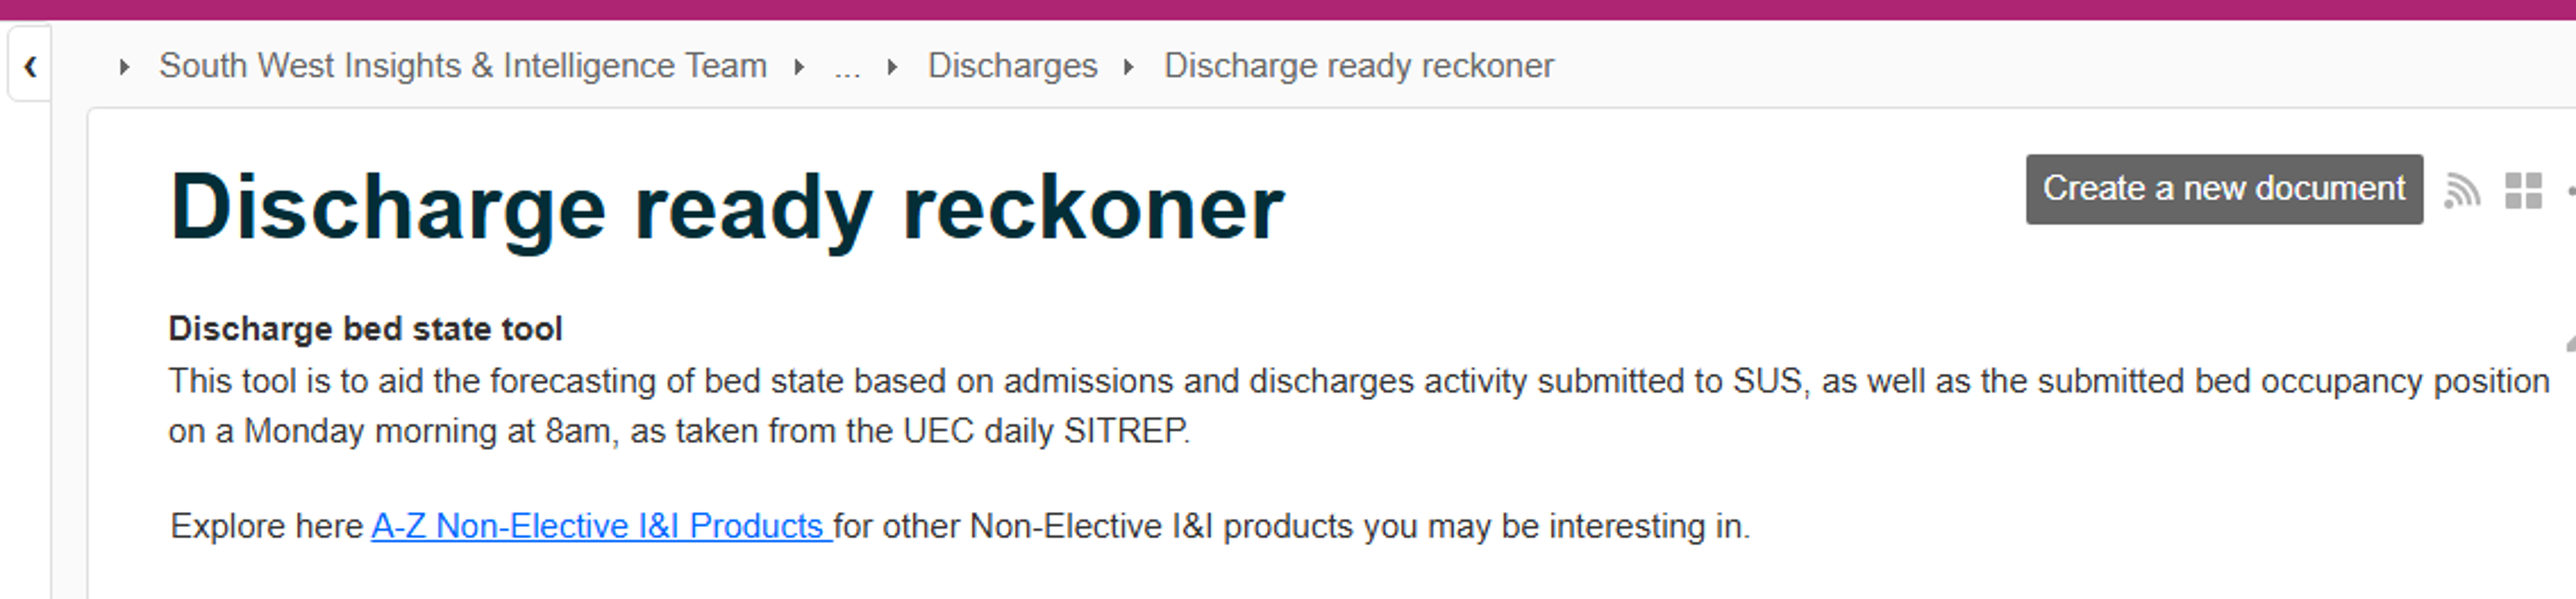
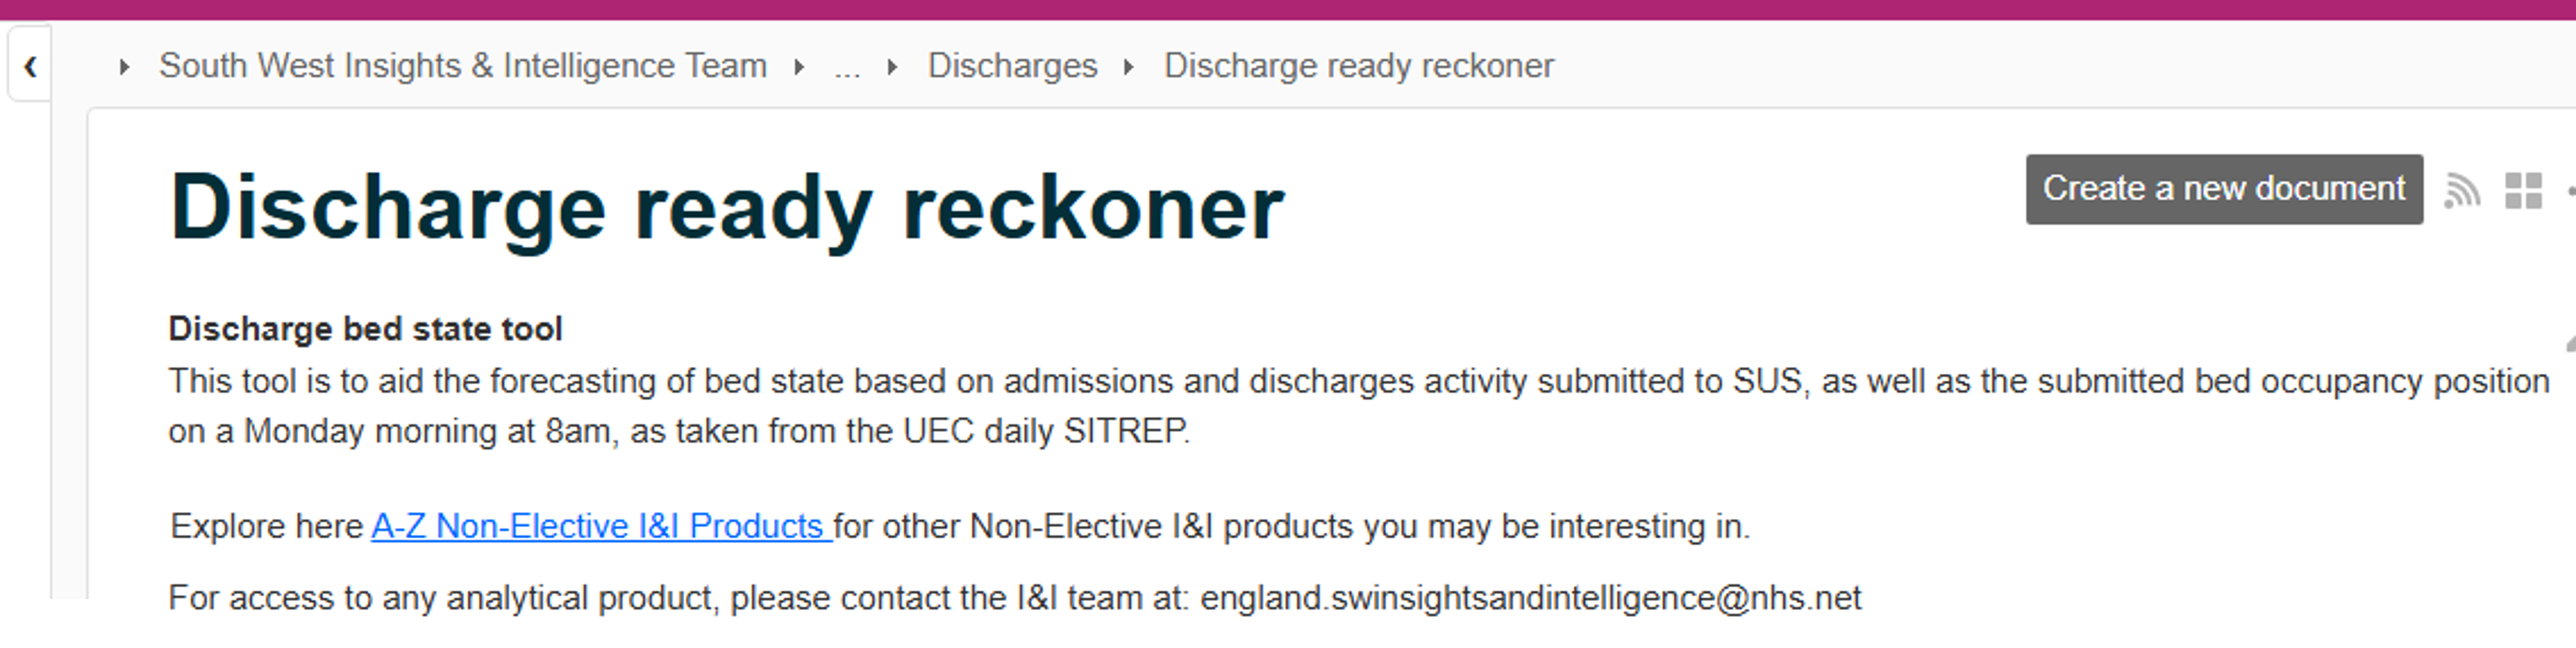
small changes

diff --git a/docs/reporting_corecomponents/index.md b/docs/reporting_corecomponents/index.md
@@ -71,6 +71,7 @@ All routine analytical products should be made available on the [NHS Futures pag
 
 **Product Description:** Every product should include a clear description outlining its purpose and the frequency of updates on the NHS Futures product page
 
+**How to get access:** Directions on how to gain access should be clearly shown (e.g. "For access to any analytical product, please contact the I&I team at: **england.swinsightsandintelligence@nhs.net**)
 
 (*As per example shown below*)
 
@@ -93,5 +94,39 @@ All routine analytical products should be made available on the [NHS Futures pag
 | Safeguarding                                | [View Safeguarding Products](https://future.nhs.uk/SouthWestAnalytics/viewDatastore?dsid=1125188&adv=s&datViewmode=list&search_2=11) |
 | Workforce                                   | [View Workforce Products](https://future.nhs.uk/SouthWestAnalytics/viewDatastore?dsid=1125188&adv=s&datViewmode=list&search_2=5) |
 
+
+---
+
+### Access & Product Classification
+
+**Access Control:**Each analytical product must have a defined access level based on its content sensitivity and intended audience. This ensures appropriate data governance, protects sensitive insights, and prevents unintentional sharing outside of agreed boundaries.
+
+#### Product Classification Levels
+
+Access levels are standardised into four categories:
+
+**Highly Confidential**  
+Access limited to named individuals or closed groups (e.g. policy, clinical or legal teams). May include patient-identifiable information or draft material not ready for broader viewing.
+
+**NHS England – Internal (Regional Only)**  
+For use within the regional NHS England team. May include performance data, internal indicators, or working dashboards still in iteration.
+
+**NHS England – Internal (All Regions)**  
+Suitable for sharing across all NHS England regional teams. These products must be well-documented, non-sensitive, and ready for broader consumption.
+
+**NHS Region (ICBs and Providers)**  
+Intended for wider access across systems — including ICBs and provider trusts. These products should meet high standards for accuracy, clarity, and contextual support.
+
+Each product’s **classification level must be recorded in the product catalogue**, and will be used as the reference point for granting or restricting access.
+
+---
+
+### Access Process: Initial Launch & BAU
+
+**At Launch:** The product owner must confirm the correct classification level and ensure this is documented in the product catalogue. The I&I team will apply appropriate access controls based on this.
+
+**Ongoing (BAU):** Responsibility for managing access remains with the product owner. Any changes to classification, access requirements, or user groups should be submitted via the I&I change process and reflected in the catalogue.
+
+For access to any analytical product, please contact the I&I team at: **[INSERT CONTACT OR SERVICE DESK LINK]**
 
 
